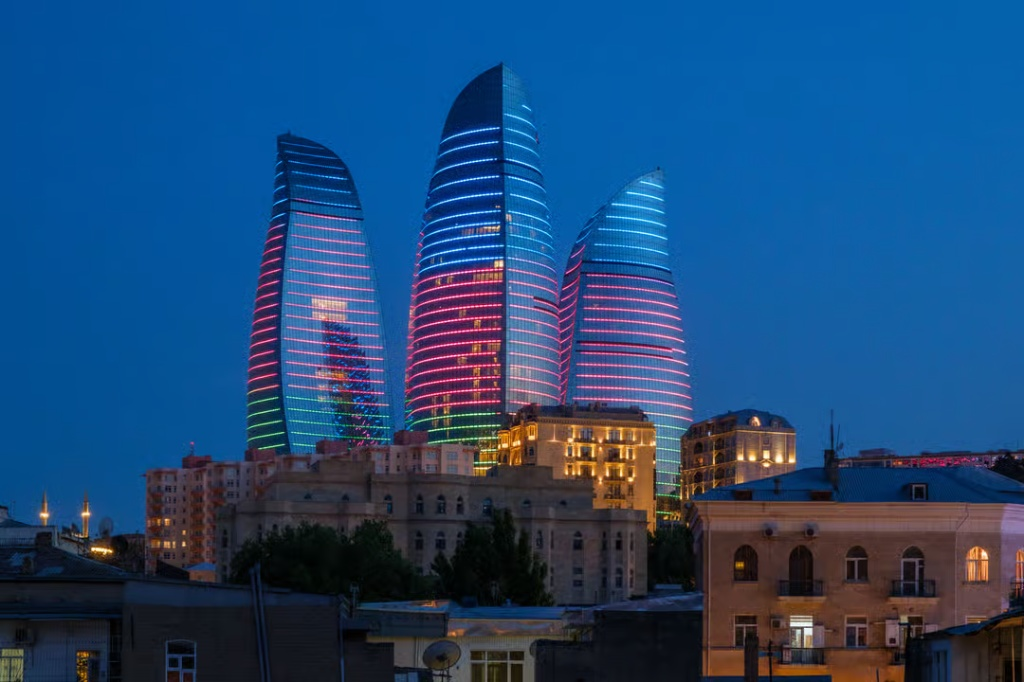
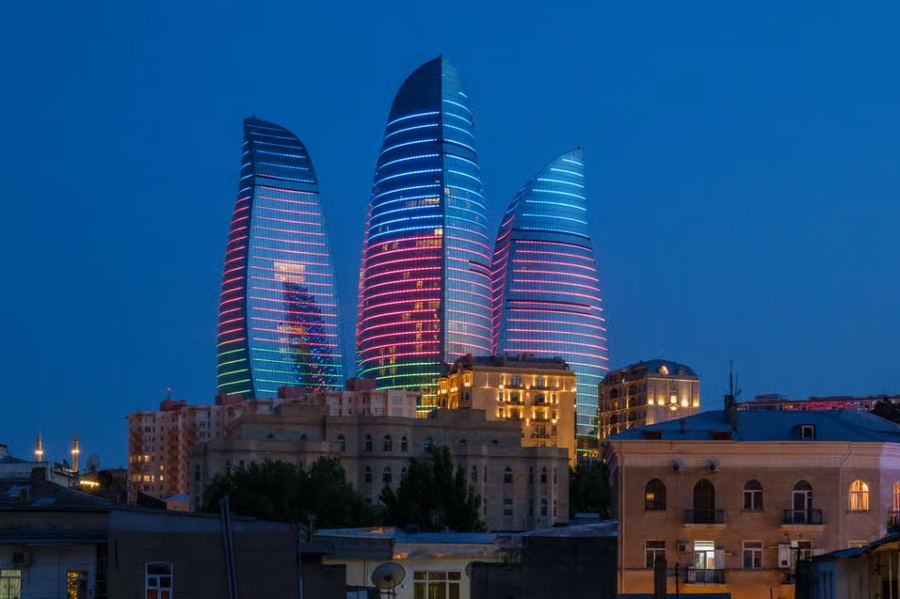
Page speed Insight mobil

Changed region(s): [[0.3111, 0.4808, 0.3422, 0.5109]]

diff --git a/component.js b/component.js
@@ -75,7 +75,7 @@ document.addEventListener("DOMContentLoaded", function () {
             <nav class="fixed top-0 left-0 right-0 z-50 glass-nav transition-all duration-300 bg-[#061412]/85 backdrop-blur-md border-b border-slate-800">
                 <div class="max-w-7xl mx-auto px-6 h-20 flex items-center justify-between">
                     <a href="index" class="flex items-center gap-3 group">
-                        <img src="images/logo.png.png" alt="Caspian Bridges Logo" class="w-10 h-10 object-contain rounded-xl group-hover:scale-105 transition shadow-lg">
+                        <img src="images/logo.png.png" alt="Caspian Bridges Logo" class="w-10 h-10 object-contain rounded-xl group-hover:scale-105 transition shadow-lg" width="40" height="40" decoding="async" fetchpriority="high">
                         <div>
                             <span class="text-lg font-black tracking-wider text-white block leading-none">CASPIAN BRIDGES</span>
                             <span class="text-[10px] uppercase tracking-widest text-amber-400 font-semibold block mt-1">Baku • Global Gateway</span>
@@ -160,7 +160,7 @@ document.addEventListener("DOMContentLoaded", function () {
                 <div class="max-w-7xl mx-auto grid grid-cols-1 md:grid-cols-4 gap-10 mb-12">
                     <div class="space-y-4">
                         <div class="flex items-center gap-3">
-                            <img src="images/logo.png.png" alt="Logo" class="w-8 h-8 object-contain rounded-lg">
+                            <img src="images/logo.png.png" alt="Logo" class="w-8 h-8 object-contain rounded-lg" width="32" height="32" loading="lazy" decoding="async">
                             <span class="text-white font-black tracking-wider text-base">CASPIAN BRIDGES</span>
                         </div>
                         <p class="text-xs leading-relaxed text-slate-400" data-az="Bakı, Azərbaycan üzrə təhsil qəbulu, hüquqi yaşayış və elit turizm həllərini birləşdiririk." data-en="Connecting opportunities, education admissions, legal residency, and elite tourism solutions in Baku, Azerbaijan." data-ru="Объединяем возможности, поступление в вузы, легальное проживание и элитный туризм в Баку, Азербайджан." data-ar="ربط الفرص، القبول التعليمي، الإقامة القانونية، وحلول السياحة الفاخرة في باكو، أذربيجان.">Connecting opportunities, education admissions, legal residency, and elite tourism solutions in Baku, Azerbaijan.</p>

diff --git a/index.php b/index.php
@@ -51,9 +51,13 @@ $html_dir = $lang === 'ar' ? 'rtl' : 'ltr';
     <link rel="alternate" hreflang="ru" href="https://caspianbridges.com/?lang=ru">
     <link rel="alternate" hreflang="ar" href="https://caspianbridges.com/?lang=ar">
     <link rel="alternate" hreflang="x-default" href="https://caspianbridges.com/">
-    <script src="https://cdn.tailwindcss.com"></script>
+    <link rel="preconnect" href="https://fonts.googleapis.com">
+    <link rel="preconnect" href="https://fonts.gstatic.com" crossorigin>
+    <link rel="preconnect" href="https://images.unsplash.com">
+    <link rel="preconnect" href="https://cdn.tailwindcss.com">
+    <script src="https://cdn.tailwindcss.com" defer></script>
     <link href="https://fonts.googleapis.com/css2?family=Plus+Jakarta+Sans:wght@300;400;600;700;800&display=swap" rel="stylesheet">
-    <script src="component.js"></script>
+    <script src="component.js" defer></script>
     <style>
         body { font-family: 'Plus Jakarta Sans', sans-serif; }
         .glass-nav { background: rgba(6, 20, 18, 0.85); backdrop-filter: blur(16px); -webkit-backdrop-filter: blur(16px); border: 1px solid rgba(255, 255, 255, 0.08); }
@@ -146,13 +150,13 @@ $html_dir = $lang === 'ar' ? 'rtl' : 'ltr';
             <!-- Arxa plan: tanınmış yerlərin animasiyalı slayd-şousu (çərçivəsiz, tam en) -->
             <div class="monument-slider monument-slider--bg absolute inset-0 z-0" id="az-slider">
                 <div class="monument-slide active">
-                    <img src="https://images.unsplash.com/photo-1596306499300-0b7b1689b9f6?q=80&w=1600&auto=format&fit=crop" alt="Alov Qüllələri Bakı">
+                    <img src="https://images.unsplash.com/photo-1596306499300-0b7b1689b9f6?q=80&w=1600&auto=format&fit=crop" srcset="https://images.unsplash.com/photo-1596306499300-0b7b1689b9f6?q=75&w=800&auto=format&fit=crop 800w, https://images.unsplash.com/photo-1596306499300-0b7b1689b9f6?q=80&w=1600&auto=format&fit=crop 1600w" sizes="100vw" fetchpriority="high" decoding="async" alt="Alov Qüllələri Bakı">
                 </div>
                 <div class="monument-slide">
-                    <img src="https://images.unsplash.com/photo-1746382320310-91c257f9566a?q=80&w=1600&auto=format&fit=crop" alt="Qız Qalası Bakı">
+                    <img src="https://images.unsplash.com/photo-1746382320310-91c257f9566a?q=80&w=1600&auto=format&fit=crop" loading="lazy" decoding="async" alt="Qız Qalası Bakı">
                 </div>
                 <div class="monument-slide">
-                    <img src="https://images.unsplash.com/photo-1595980542930-9eea66620834?q=80&w=1600&auto=format&fit=crop" alt="Heydər Əliyev Mərkəzi Bakı">
+                    <img src="https://images.unsplash.com/photo-1595980542930-9eea66620834?q=80&w=1600&auto=format&fit=crop" loading="lazy" decoding="async" alt="Heydər Əliyev Mərkəzi Bakı">
                 </div>
             </div>
             <!-- Mətnin oxunaqlı olması üçün tündləşdirici overlay -->
@@ -189,9 +193,9 @@ $html_dir = $lang === 'ar' ? 'rtl' : 'ltr';
                 <!-- Slayder İdarəetmə Nöqtələri (ön planda, arxa fon şəkli üzərində) -->
                 <div class="absolute bottom-0 inset-x-0 flex items-center justify-end gap-4 pb-2 reveal">
                     <div class="flex items-center gap-2" id="az-dots">
-                        <button class="w-8 h-2 rounded-full bg-amber-400 transition-all duration-300"></button>
-                        <button class="w-3 h-2 rounded-full bg-slate-700 transition-all duration-300"></button>
-                        <button class="w-3 h-2 rounded-full bg-slate-700 transition-all duration-300"></button>
+                        <button class="w-8 h-2 rounded-full bg-amber-400 transition-all duration-300" type="button" aria-label="Slayd 1"></button>
+                        <button class="w-3 h-2 rounded-full bg-slate-700 transition-all duration-300" type="button" aria-label="Slayd 2"></button>
+                        <button class="w-3 h-2 rounded-full bg-slate-700 transition-all duration-300" type="button" aria-label="Slayd 3"></button>
                     </div>
                     <a href="login.php?lang=az" class="text-xs font-bold text-amber-400 hover:underline"> Bakını kəşf et → </a>
                 </div>
@@ -210,7 +214,7 @@ $html_dir = $lang === 'ar' ? 'rtl' : 'ltr';
             <div class="grid md:grid-cols-1 lg:grid-cols-3 gap-6">
                 <a href="universities.php?lang=az" class="glass-card rounded-3xl overflow-hidden group hover:border-amber-500/50 transition block reveal reveal-delay-1">
                     <div class="h-48 overflow-hidden relative">
-                        <img src="images/baku.jpg" alt="Tehsil" class="w-full h-full object-cover group-hover:scale-110 transition duration-500" onerror="this.src='https://images.unsplash.com/photo-1584646098378-0874589d76b1?q=80&w=1000&auto=format&fit=crop'">
+                        <img src="images/baku.jpg" alt="Tehsil" class="w-full h-full object-cover group-hover:scale-110 transition duration-500" onerror="this.src='https://images.unsplash.com/photo-1584646098378-0874589d76b1?q=80&w=1000&auto=format&fit=crop'" loading="lazy" decoding="async">
                         <span class="absolute top-3 left-3 bg-[#061412]/90 px-3 py-1 rounded-full text-[11px] font-bold text-amber-400">Təhsil</span>
                     </div>
                     <div class="p-5">
@@ -221,7 +225,7 @@ $html_dir = $lang === 'ar' ? 'rtl' : 'ltr';
                 </a>
                 <a href="business.php?lang=az" class="glass-card rounded-3xl overflow-hidden group hover:border-emerald-500/50 transition block reveal reveal-delay-2">
                     <div class="h-48 overflow-hidden relative">
-                        <img src="images/investments.jpg" alt="Business" class="w-full h-full object-cover group-hover:scale-110 transition duration-500" onerror="this.src='https://images.unsplash.com/photo-1486406146926-c627a92ad1ab?q=80&w=1000&auto=format&fit=crop'">
+                        <img src="https://images.unsplash.com/photo-1486406146926-c627a92ad1ab?q=80&w=1000&auto=format&fit=crop" alt="Business" class="w-full h-full object-cover group-hover:scale-110 transition duration-500" loading="lazy" decoding="async">
                         <span class="absolute top-3 left-3 bg-[#061412]/90 px-3 py-1 rounded-full text-[11px] font-bold text-emerald-400">Biznes</span>
                     </div>
                     <div class="p-5">
@@ -232,7 +236,7 @@ $html_dir = $lang === 'ar' ? 'rtl' : 'ltr';
                 </a>
                 <a href="travel.php?lang=az" class="glass-card rounded-3xl overflow-hidden group hover:border-emerald-500/50 transition block reveal reveal-delay-3">
                     <div class="h-48 overflow-hidden relative">
-                        <img src="images/shahdag.jpg" alt="Travel" class="w-full h-full object-cover group-hover:scale-110 transition duration-500" onerror="this.src='https://images.unsplash.com/photo-1548685913-fe6678babe8d?q=80&w=1000&auto=format&fit=crop'">
+                        <img src="images/shahdag.jpg" alt="Travel" class="w-full h-full object-cover group-hover:scale-110 transition duration-500" onerror="this.src='https://images.unsplash.com/photo-1548685913-fe6678babe8d?q=80&w=1000&auto=format&fit=crop'" loading="lazy" decoding="async">
                         <span class="absolute top-3 left-3 bg-[#061412]/90 px-3 py-1 rounded-full text-[11px] font-bold text-emerald-400">Səyahət</span>
                     </div>
                     <div class="p-5">
@@ -250,13 +254,13 @@ $html_dir = $lang === 'ar' ? 'rtl' : 'ltr';
         <section class="hero-glow pt-36 pb-24 px-6 min-h-screen flex items-center relative overflow-hidden">
             <div class="monument-slider monument-slider--bg absolute inset-0 z-0" id="en-slider">
                 <div class="monument-slide active">
-                    <img src="https://images.unsplash.com/photo-1596306499300-0b7b1689b9f6?q=80&w=1600&auto=format&fit=crop" alt="Flame Towers Baku">
+                    <img src="https://images.unsplash.com/photo-1596306499300-0b7b1689b9f6?q=80&w=1600&auto=format&fit=crop" srcset="https://images.unsplash.com/photo-1596306499300-0b7b1689b9f6?q=75&w=800&auto=format&fit=crop 800w, https://images.unsplash.com/photo-1596306499300-0b7b1689b9f6?q=80&w=1600&auto=format&fit=crop 1600w" sizes="100vw" fetchpriority="high" decoding="async" alt="Flame Towers Baku">
                 </div>
                 <div class="monument-slide">
-                    <img src="https://images.unsplash.com/photo-1746382320310-91c257f9566a?q=80&w=1600&auto=format&fit=crop" alt="Maiden Tower Baku">
+                    <img src="https://images.unsplash.com/photo-1746382320310-91c257f9566a?q=80&w=1600&auto=format&fit=crop" loading="lazy" decoding="async" alt="Maiden Tower Baku">
                 </div>
                 <div class="monument-slide">
-                    <img src="https://images.unsplash.com/photo-1595980542930-9eea66620834?q=80&w=1600&auto=format&fit=crop" alt="Heydar Aliyev Center Baku">
+                    <img src="https://images.unsplash.com/photo-1595980542930-9eea66620834?q=80&w=1600&auto=format&fit=crop" loading="lazy" decoding="async" alt="Heydar Aliyev Center Baku">
                 </div>
             </div>
             <div class="hero-scrim absolute inset-0 z-[1] pointer-events-none"></div>
@@ -289,9 +293,9 @@ $html_dir = $lang === 'ar' ? 'rtl' : 'ltr';
 
                 <div class="absolute bottom-0 inset-x-0 flex items-center justify-end gap-4 pb-2 reveal">
                     <div class="flex items-center gap-2" id="en-dots">
-                        <button class="w-8 h-2 rounded-full bg-amber-400 transition-all duration-300"></button>
-                        <button class="w-3 h-2 rounded-full bg-slate-700 transition-all duration-300"></button>
-                        <button class="w-3 h-2 rounded-full bg-slate-700 transition-all duration-300"></button>
+                        <button class="w-8 h-2 rounded-full bg-amber-400 transition-all duration-300" type="button" aria-label="Slide 1"></button>
+                        <button class="w-3 h-2 rounded-full bg-slate-700 transition-all duration-300" type="button" aria-label="Slide 2"></button>
+                        <button class="w-3 h-2 rounded-full bg-slate-700 transition-all duration-300" type="button" aria-label="Slide 3"></button>
                     </div>
                     <a href="login.php?lang=en" class="text-xs font-bold text-amber-400 hover:underline"> Discover Baku → </a>
                 </div>
@@ -309,7 +313,7 @@ $html_dir = $lang === 'ar' ? 'rtl' : 'ltr';
             <div class="grid md:grid-cols-1 lg:grid-cols-3 gap-6">
                 <a href="universities.php?lang=en" class="glass-card rounded-3xl overflow-hidden group hover:border-amber-500/50 transition block reveal reveal-delay-1">
                     <div class="h-48 overflow-hidden relative">
-                        <img src="images/baku.jpg" alt="Education" class="w-full h-full object-cover group-hover:scale-110 transition duration-500" onerror="this.src='https://images.unsplash.com/photo-1584646098378-0874589d76b1?q=80&w=1000&auto=format&fit=crop'">
+                        <img src="images/baku.jpg" alt="Education" class="w-full h-full object-cover group-hover:scale-110 transition duration-500" onerror="this.src='https://images.unsplash.com/photo-1584646098378-0874589d76b1?q=80&w=1000&auto=format&fit=crop'" loading="lazy" decoding="async">
                         <span class="absolute top-3 left-3 bg-[#061412]/90 px-3 py-1 rounded-full text-[11px] font-bold text-amber-400">Education</span>
                     </div>
                     <div class="p-5">
@@ -320,7 +324,7 @@ $html_dir = $lang === 'ar' ? 'rtl' : 'ltr';
                 </a>
                 <a href="business.php?lang=en" class="glass-card rounded-3xl overflow-hidden group hover:border-emerald-500/50 transition block reveal reveal-delay-2">
                     <div class="h-48 overflow-hidden relative">
-                        <img src="images/investments.jpg" alt="Business" class="w-full h-full object-cover group-hover:scale-110 transition duration-500" onerror="this.src='https://images.unsplash.com/photo-1486406146926-c627a92ad1ab?q=80&w=1000&auto=format&fit=crop'">
+                        <img src="https://images.unsplash.com/photo-1486406146926-c627a92ad1ab?q=80&w=1000&auto=format&fit=crop" alt="Business" class="w-full h-full object-cover group-hover:scale-110 transition duration-500" loading="lazy" decoding="async">
                         <span class="absolute top-3 left-3 bg-[#061412]/90 px-3 py-1 rounded-full text-[11px] font-bold text-emerald-400">Business</span>
                     </div>
                     <div class="p-5">
@@ -331,7 +335,7 @@ $html_dir = $lang === 'ar' ? 'rtl' : 'ltr';
                 </a>
                 <a href="travel.php?lang=en" class="glass-card rounded-3xl overflow-hidden group hover:border-emerald-500/50 transition block reveal reveal-delay-3">
                     <div class="h-48 overflow-hidden relative">
-                        <img src="images/shahdag.jpg" alt="Travel" class="w-full h-full object-cover group-hover:scale-110 transition duration-500" onerror="this.src='https://images.unsplash.com/photo-1548685913-fe6678babe8d?q=80&w=1000&auto=format&fit=crop'">
+                        <img src="images/shahdag.jpg" alt="Travel" class="w-full h-full object-cover group-hover:scale-110 transition duration-500" onerror="this.src='https://images.unsplash.com/photo-1548685913-fe6678babe8d?q=80&w=1000&auto=format&fit=crop'" loading="lazy" decoding="async">
                         <span class="absolute top-3 left-3 bg-[#061412]/90 px-3 py-1 rounded-full text-[11px] font-bold text-emerald-400">Travel</span>
                     </div>
                     <div class="p-5">
@@ -349,13 +353,13 @@ $html_dir = $lang === 'ar' ? 'rtl' : 'ltr';
         <section class="hero-glow pt-36 pb-24 px-6 min-h-screen flex items-center relative overflow-hidden">
             <div class="monument-slider monument-slider--bg absolute inset-0 z-0" id="ru-slider">
                 <div class="monument-slide active">
-                    <img src="https://images.unsplash.com/photo-1596306499300-0b7b1689b9f6?q=80&w=1600&auto=format&fit=crop" alt="Огненные башни Баку">
+                    <img src="https://images.unsplash.com/photo-1596306499300-0b7b1689b9f6?q=80&w=1600&auto=format&fit=crop" srcset="https://images.unsplash.com/photo-1596306499300-0b7b1689b9f6?q=75&w=800&auto=format&fit=crop 800w, https://images.unsplash.com/photo-1596306499300-0b7b1689b9f6?q=80&w=1600&auto=format&fit=crop 1600w" sizes="100vw" fetchpriority="high" decoding="async" alt="Огненные башни Баку">
                 </div>
                 <div class="monument-slide">
-                    <img src="https://images.unsplash.com/photo-1746382320310-91c257f9566a?q=80&w=1600&auto=format&fit=crop" alt="Девичья башня Баку">
+                    <img src="https://images.unsplash.com/photo-1746382320310-91c257f9566a?q=80&w=1600&auto=format&fit=crop" loading="lazy" decoding="async" alt="Девичья башня Баку">
                 </div>
                 <div class="monument-slide">
-                    <img src="https://images.unsplash.com/photo-1595980542930-9eea66620834?q=80&w=1600&auto=format&fit=crop" alt="Центр Гейдара Алиева Баку">
+                    <img src="https://images.unsplash.com/photo-1595980542930-9eea66620834?q=80&w=1600&auto=format&fit=crop" loading="lazy" decoding="async" alt="Центр Гейдара Алиева Баку">
                 </div>
             </div>
             <div class="hero-scrim absolute inset-0 z-[1] pointer-events-none"></div>
@@ -388,9 +392,9 @@ $html_dir = $lang === 'ar' ? 'rtl' : 'ltr';
 
                 <div class="absolute bottom-0 inset-x-0 flex items-center justify-end gap-4 pb-2 reveal">
                     <div class="flex items-center gap-2" id="ru-dots">
-                        <button class="w-8 h-2 rounded-full bg-amber-400 transition-all duration-300"></button>
-                        <button class="w-3 h-2 rounded-full bg-slate-700 transition-all duration-300"></button>
-                        <button class="w-3 h-2 rounded-full bg-slate-700 transition-all duration-300"></button>
+                        <button class="w-8 h-2 rounded-full bg-amber-400 transition-all duration-300" type="button" aria-label="Слайд 1"></button>
+                        <button class="w-3 h-2 rounded-full bg-slate-700 transition-all duration-300" type="button" aria-label="Слайд 2"></button>
+                        <button class="w-3 h-2 rounded-full bg-slate-700 transition-all duration-300" type="button" aria-label="Слайд 3"></button>
                     </div>
                     <a href="login.php?lang=ru" class="text-xs font-bold text-amber-400 hover:underline"> Открыть Баку → </a>
                 </div>
@@ -408,7 +412,7 @@ $html_dir = $lang === 'ar' ? 'rtl' : 'ltr';
             <div class="grid md:grid-cols-1 lg:grid-cols-3 gap-6">
                 <a href="universities.php?lang=ru" class="glass-card rounded-3xl overflow-hidden group hover:border-amber-500/50 transition block reveal reveal-delay-1">
                     <div class="h-48 overflow-hidden relative">
-                        <img src="images/baku.jpg" alt="Education" class="w-full h-full object-cover group-hover:scale-110 transition duration-500" onerror="this.src='https://images.unsplash.com/photo-1584646098378-0874589d76b1?q=80&w=1000&auto=format&fit=crop'">
+                        <img src="images/baku.jpg" alt="Education" class="w-full h-full object-cover group-hover:scale-110 transition duration-500" onerror="this.src='https://images.unsplash.com/photo-1584646098378-0874589d76b1?q=80&w=1000&auto=format&fit=crop'" loading="lazy" decoding="async">
                         <span class="absolute top-3 left-3 bg-[#061412]/90 px-3 py-1 rounded-full text-[11px] font-bold text-amber-400">Учеба</span>
                     </div>
                     <div class="p-5">
@@ -419,7 +423,7 @@ $html_dir = $lang === 'ar' ? 'rtl' : 'ltr';
                 </a>
                 <a href="business.php?lang=ru" class="glass-card rounded-3xl overflow-hidden group hover:border-emerald-500/50 transition block reveal reveal-delay-2">
                     <div class="h-48 overflow-hidden relative">
-                        <img src="images/investments.jpg" alt="Business" class="w-full h-full object-cover group-hover:scale-110 transition duration-500" onerror="this.src='https://images.unsplash.com/photo-1486406146926-c627a92ad1ab?q=80&w=1000&auto=format&fit=crop'">
+                        <img src="https://images.unsplash.com/photo-1486406146926-c627a92ad1ab?q=80&w=1000&auto=format&fit=crop" alt="Business" class="w-full h-full object-cover group-hover:scale-110 transition duration-500" loading="lazy" decoding="async">
                         <span class="absolute top-3 left-3 bg-[#061412]/90 px-3 py-1 rounded-full text-[11px] font-bold text-emerald-400">Бизнес</span>
                     </div>
                     <div class="p-5">
@@ -430,7 +434,7 @@ $html_dir = $lang === 'ar' ? 'rtl' : 'ltr';
                 </a>
                 <a href="travel.php?lang=ru" class="glass-card rounded-3xl overflow-hidden group hover:border-emerald-500/50 transition block reveal reveal-delay-3">
                     <div class="h-48 overflow-hidden relative">
-                        <img src="images/shahdag.jpg" alt="Travel" class="w-full h-full object-cover group-hover:scale-110 transition duration-500" onerror="this.src='https://images.unsplash.com/photo-1548685913-fe6678babe8d?q=80&w=1000&auto=format&fit=crop'">
+                        <img src="images/shahdag.jpg" alt="Travel" class="w-full h-full object-cover group-hover:scale-110 transition duration-500" onerror="this.src='https://images.unsplash.com/photo-1548685913-fe6678babe8d?q=80&w=1000&auto=format&fit=crop'" loading="lazy" decoding="async">
                         <span class="absolute top-3 left-3 bg-[#061412]/90 px-3 py-1 rounded-full text-[11px] font-bold text-emerald-400">Путешествия</span>
                     </div>
                     <div class="p-5">
@@ -448,13 +452,13 @@ $html_dir = $lang === 'ar' ? 'rtl' : 'ltr';
         <section class="hero-glow pt-36 pb-24 px-6 min-h-screen flex items-center relative overflow-hidden">
             <div class="monument-slider monument-slider--bg absolute inset-0 z-0" id="ar-slider">
                 <div class="monument-slide active">
-                    <img src="https://images.unsplash.com/photo-1596306499300-0b7b1689b9f6?q=80&w=1600&auto=format&fit=crop" alt="أبراج اللهب باكو">
+                    <img src="https://images.unsplash.com/photo-1596306499300-0b7b1689b9f6?q=80&w=1600&auto=format&fit=crop" srcset="https://images.unsplash.com/photo-1596306499300-0b7b1689b9f6?q=75&w=800&auto=format&fit=crop 800w, https://images.unsplash.com/photo-1596306499300-0b7b1689b9f6?q=80&w=1600&auto=format&fit=crop 1600w" sizes="100vw" fetchpriority="high" decoding="async" alt="أبراج اللهب باكو">
                 </div>
                 <div class="monument-slide">
-                    <img src="https://images.unsplash.com/photo-1746382320310-91c257f9566a?q=80&w=1600&auto=format&fit=crop" alt="قلعة العذراء باكو">
+                    <img src="https://images.unsplash.com/photo-1746382320310-91c257f9566a?q=80&w=1600&auto=format&fit=crop" loading="lazy" decoding="async" alt="قلعة العذراء باكو">
                 </div>
                 <div class="monument-slide">
-                    <img src="https://images.unsplash.com/photo-1595980542930-9eea66620834?q=80&w=1600&auto=format&fit=crop" alt="مركز حيدر علييف باكو">
+                    <img src="https://images.unsplash.com/photo-1595980542930-9eea66620834?q=80&w=1600&auto=format&fit=crop" loading="lazy" decoding="async" alt="مركز حيدر علييف باكو">
                 </div>
             </div>
             <div class="hero-scrim absolute inset-0 z-[1] pointer-events-none"></div>
@@ -487,9 +491,9 @@ $html_dir = $lang === 'ar' ? 'rtl' : 'ltr';
 
                 <div class="absolute bottom-0 inset-x-0 flex items-center justify-start flex-row-reverse gap-4 pb-2 reveal">
                     <div class="flex items-center gap-2" id="ar-dots">
-                        <button class="w-8 h-2 rounded-full bg-amber-400 transition-all duration-300"></button>
-                        <button class="w-3 h-2 rounded-full bg-slate-700 transition-all duration-300"></button>
-                        <button class="w-3 h-2 rounded-full bg-slate-700 transition-all duration-300"></button>
+                        <button class="w-8 h-2 rounded-full bg-amber-400 transition-all duration-300" type="button" aria-label="الشريحة 1"></button>
+                        <button class="w-3 h-2 rounded-full bg-slate-700 transition-all duration-300" type="button" aria-label="الشريحة 2"></button>
+                        <button class="w-3 h-2 rounded-full bg-slate-700 transition-all duration-300" type="button" aria-label="الشريحة 3"></button>
                     </div>
                     <a href="login.php?lang=ar" class="text-xs font-bold text-amber-400 hover:underline"> اكتشف باكو ← </a>
                 </div>
@@ -507,7 +511,7 @@ $html_dir = $lang === 'ar' ? 'rtl' : 'ltr';
             <div class="grid md:grid-cols-1 lg:grid-cols-3 gap-6">
                 <a href="universities.php?lang=ar" class="glass-card rounded-3xl overflow-hidden group hover:border-amber-500/50 transition block reveal reveal-delay-1">
                     <div class="h-48 overflow-hidden relative">
-                        <img src="images/baku.jpg" alt="Education" class="w-full h-full object-cover group-hover:scale-110 transition duration-500" onerror="this.src='https://images.unsplash.com/photo-1584646098378-0874589d76b1?q=80&w=1000&auto=format&fit=crop'">
+                        <img src="images/baku.jpg" alt="Education" class="w-full h-full object-cover group-hover:scale-110 transition duration-500" onerror="this.src='https://images.unsplash.com/photo-1584646098378-0874589d76b1?q=80&w=1000&auto=format&fit=crop'" loading="lazy" decoding="async">
                         <span class="absolute top-3 right-3 bg-[#061412]/90 px-3 py-1 rounded-full text-[11px] font-bold text-amber-400">التعليم</span>
                     </div>
                     <div class="p-5 text-right">
@@ -518,7 +522,7 @@ $html_dir = $lang === 'ar' ? 'rtl' : 'ltr';
                 </a>
                 <a href="business.php?lang=ar" class="glass-card rounded-3xl overflow-hidden group hover:border-emerald-500/50 transition block reveal reveal-delay-2">
                     <div class="h-48 overflow-hidden relative">
-                        <img src="images/investments.jpg" alt="Business" class="w-full h-full object-cover group-hover:scale-110 transition duration-500" onerror="this.src='https://images.unsplash.com/photo-1486406146926-c627a92ad1ab?q=80&w=1000&auto=format&fit=crop'">
+                        <img src="https://images.unsplash.com/photo-1486406146926-c627a92ad1ab?q=80&w=1000&auto=format&fit=crop" alt="Business" class="w-full h-full object-cover group-hover:scale-110 transition duration-500" loading="lazy" decoding="async">
                         <span class="absolute top-3 right-3 bg-[#061412]/90 px-3 py-1 rounded-full text-[11px] font-bold text-emerald-400">الأعمال</span>
                     </div>
                     <div class="p-5 text-right">
@@ -529,7 +533,7 @@ $html_dir = $lang === 'ar' ? 'rtl' : 'ltr';
                 </a>
                 <a href="travel.php?lang=ar" class="glass-card rounded-3xl overflow-hidden group hover:border-emerald-500/50 transition block reveal reveal-delay-3">
                     <div class="h-48 overflow-hidden relative">
-                        <img src="images/shahdag.jpg" alt="Travel" class="w-full h-full object-cover group-hover:scale-110 transition duration-500" onerror="this.src='https://images.unsplash.com/photo-1548685913-fe6678babe8d?q=80&w=1000&auto=format&fit=crop'">
+                        <img src="images/shahdag.jpg" alt="Travel" class="w-full h-full object-cover group-hover:scale-110 transition duration-500" onerror="this.src='https://images.unsplash.com/photo-1548685913-fe6678babe8d?q=80&w=1000&auto=format&fit=crop'" loading="lazy" decoding="async">
                         <span class="absolute top-3 right-3 bg-[#061412]/90 px-3 py-1 rounded-full text-[11px] font-bold text-emerald-400">السفر</span>
                     </div>
                     <div class="p-5 text-right">
